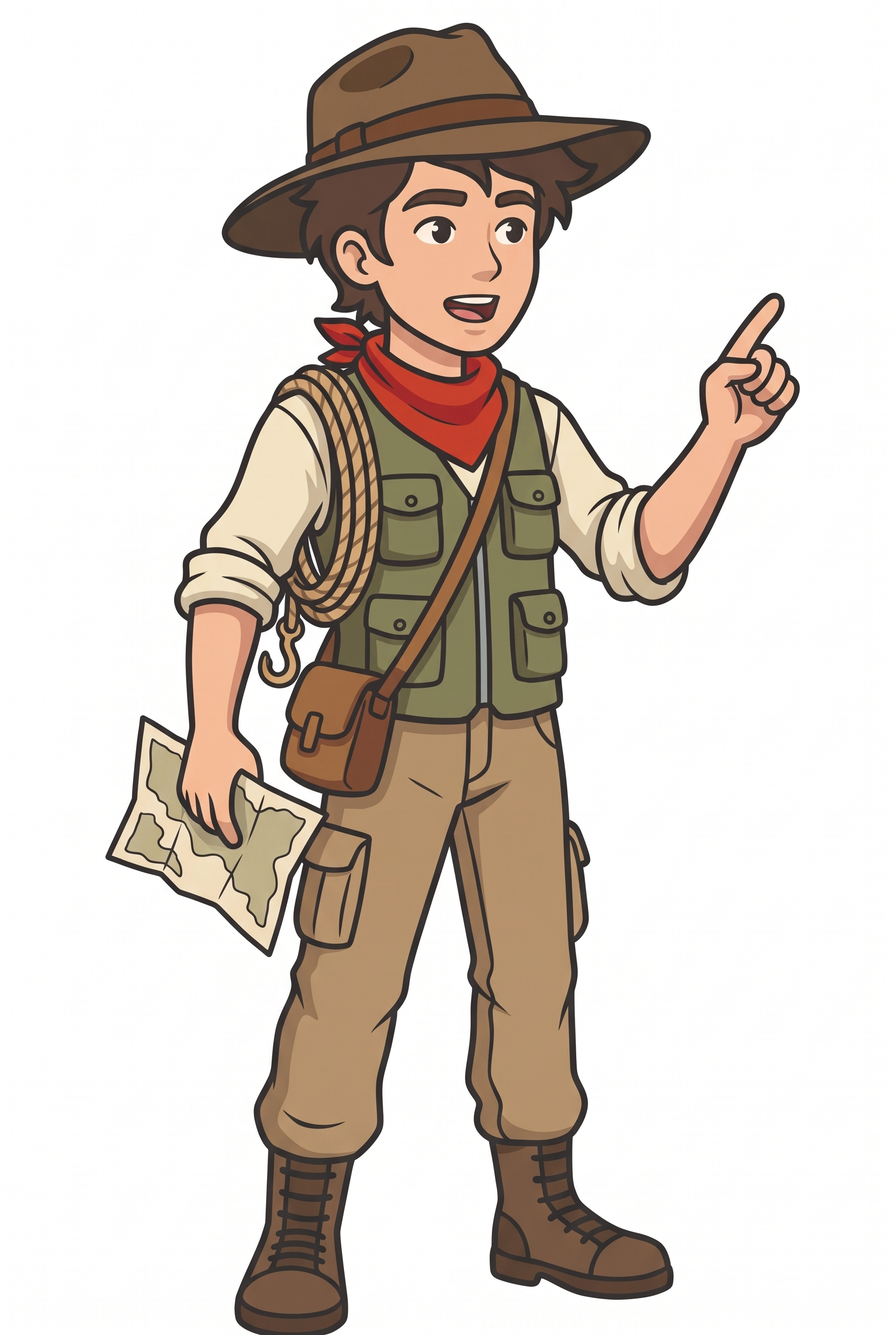
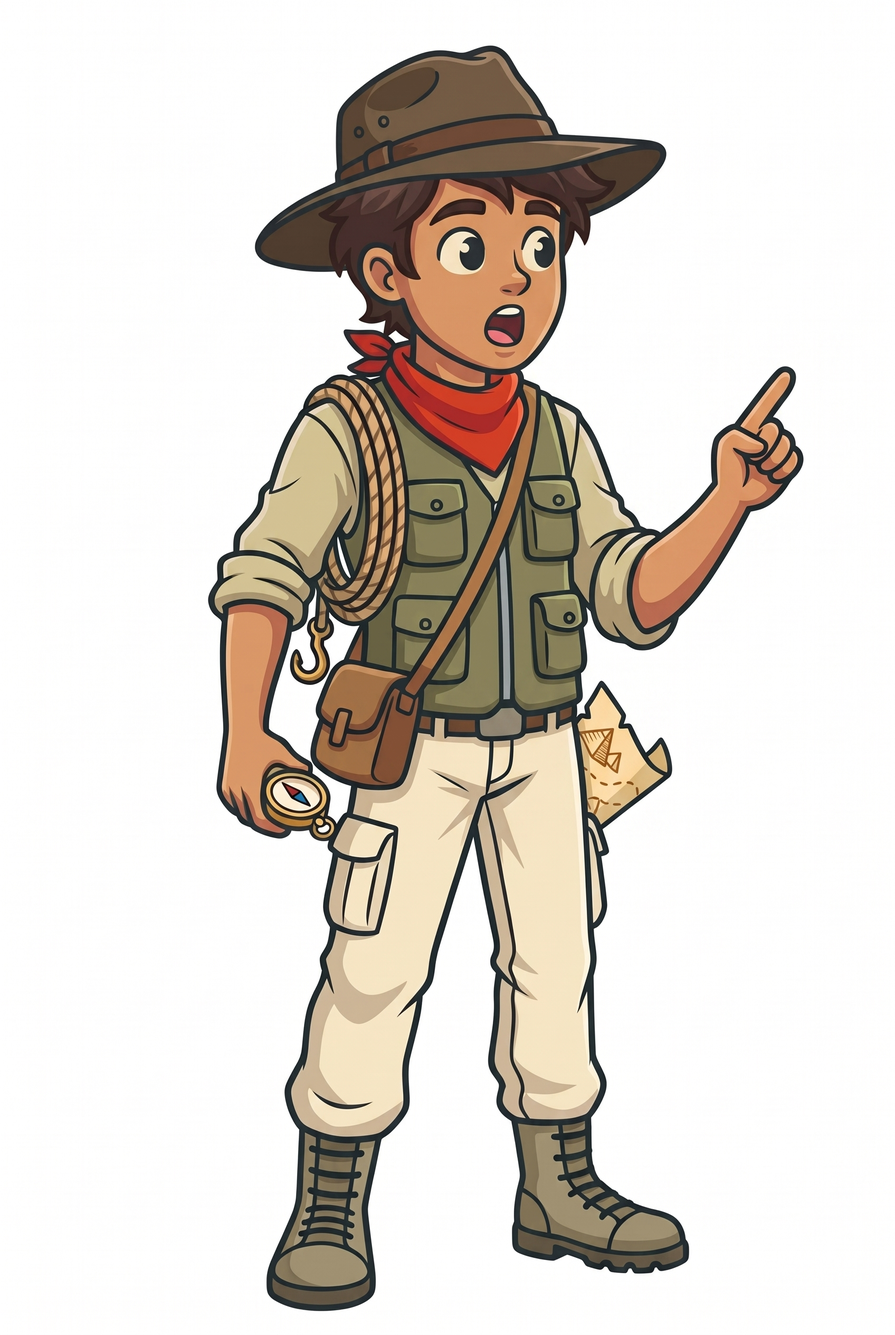
fix(art): the explorer points in his own colours
Claude-Session: https://claude.ai/code/session_012xEDDaoPZfWQpQUSbuj7W8

diff --git a/docs/game-design/story/character-art-prompts.md b/docs/game-design/story/character-art-prompts.md
@@ -77,10 +77,6 @@ prompts below is substituted with this:
 
 ### `point-explorer-250.png` — drawing attention
 
-**Re-roll:** the landed file is the pre-palette generation — skin #f0b890 where the character is #d89060,
-and tan trousers where the original is cream. It is the only file in the set whose explorer does not match
-the walking sprites.
-
 > [preamble] [palette] The same explorer, same clothing and equipment, pointing upward and slightly off-camera with
 > one index finger, looking where they point. Mouth open as if mid-sentence. Reference the supplied
 > explorer artwork.
